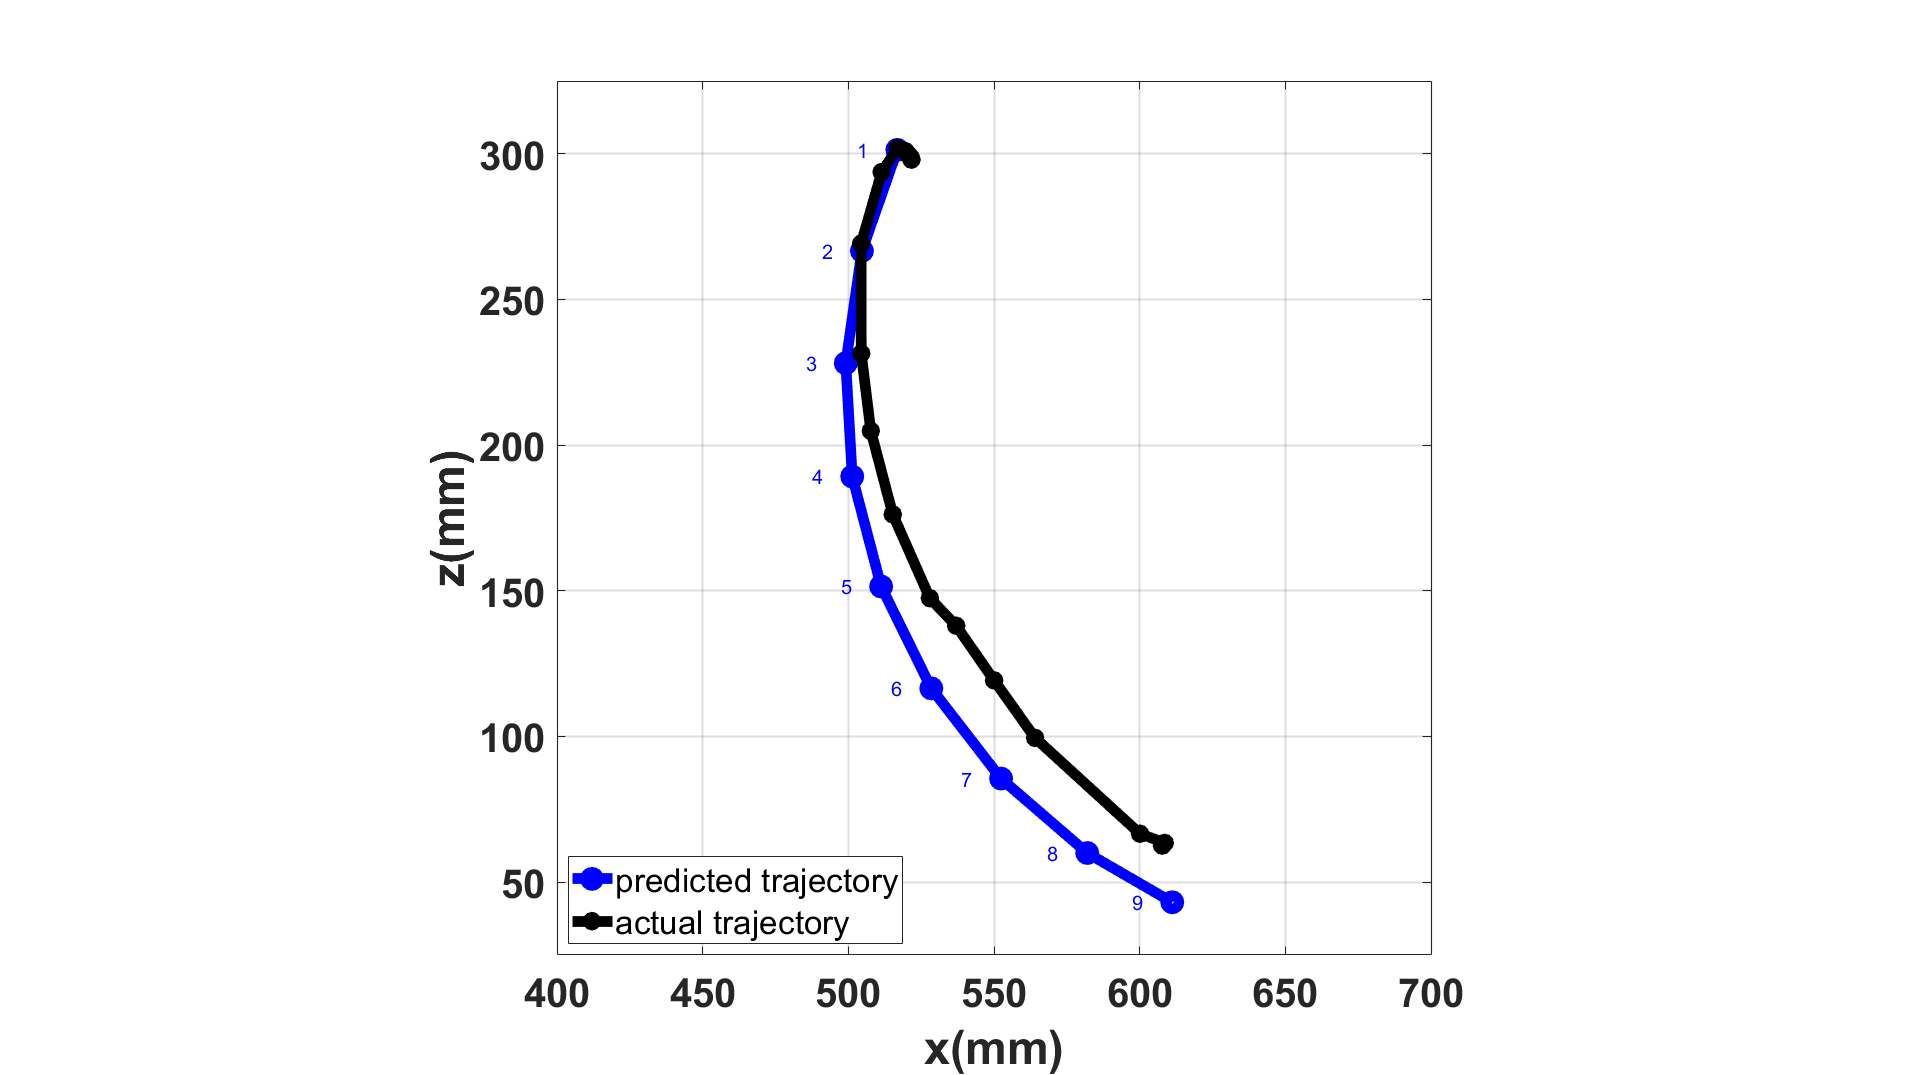
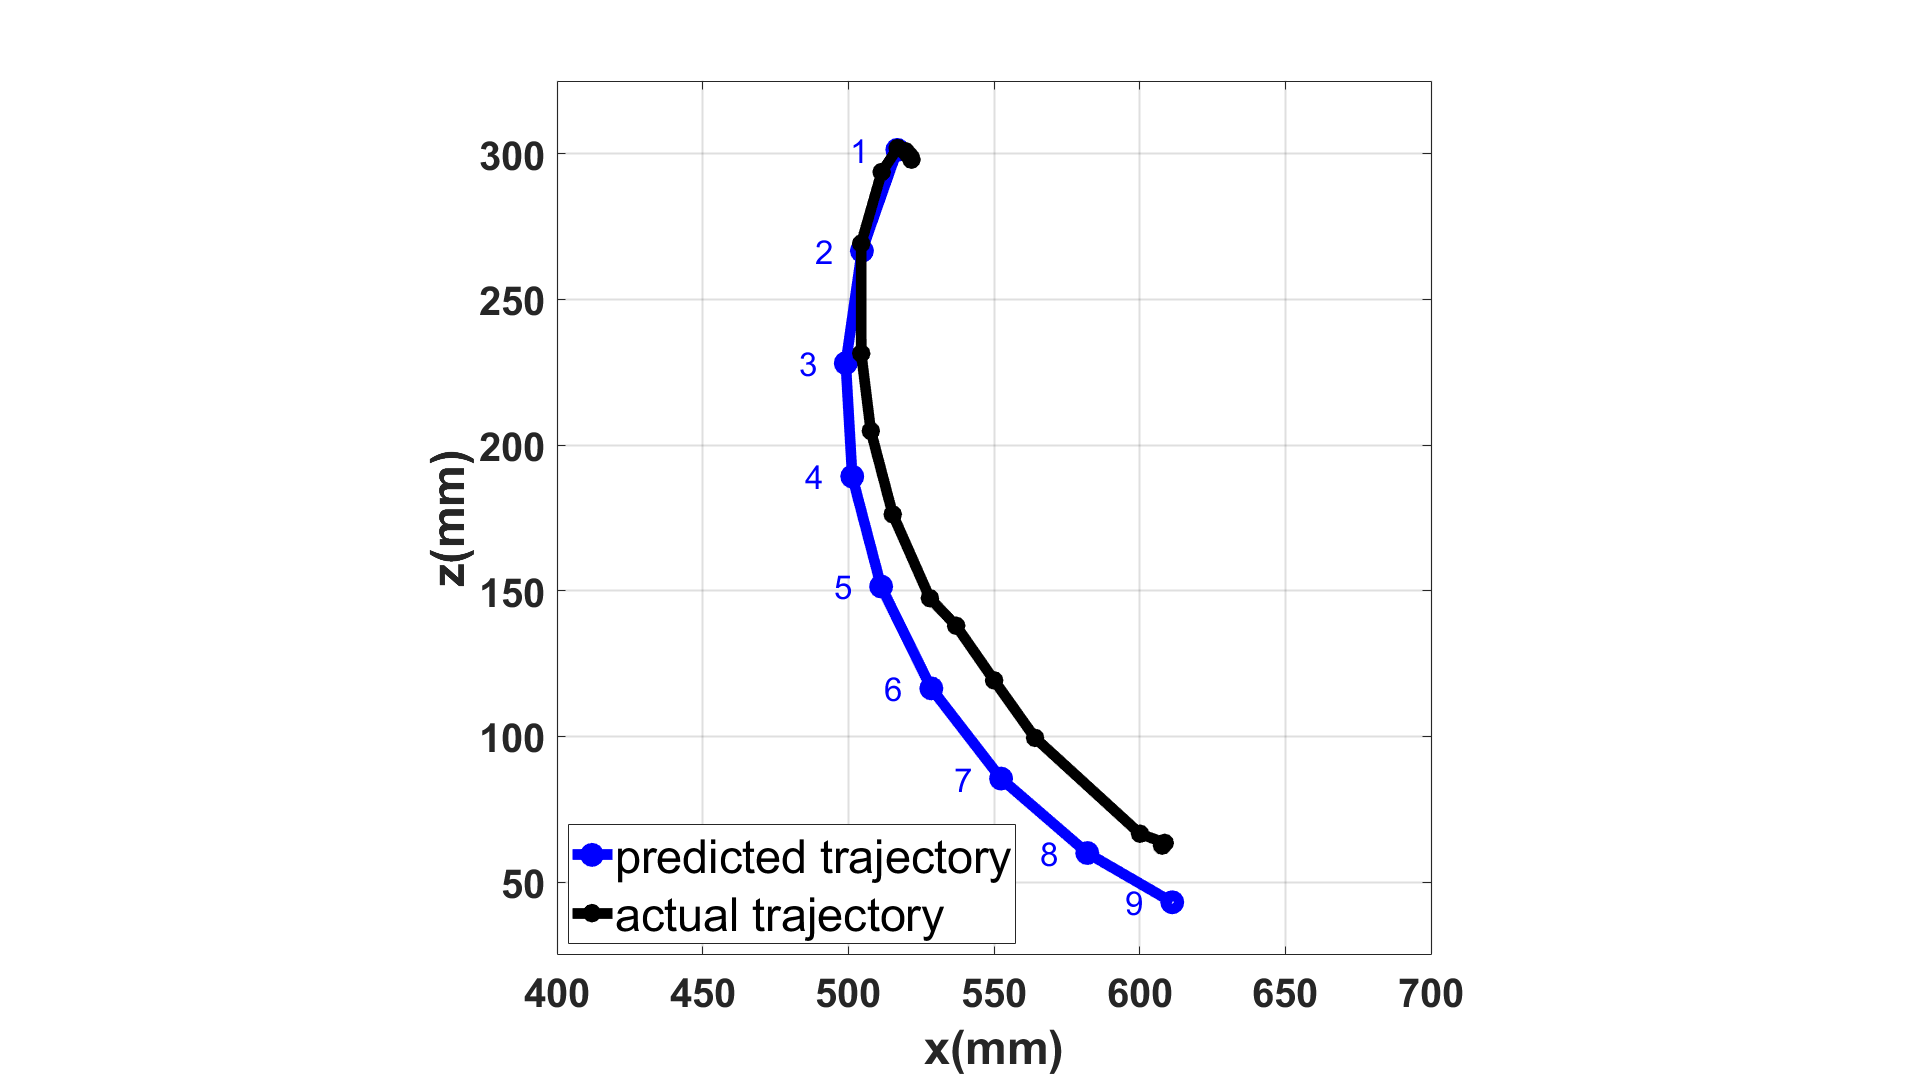
update valve_turn_case_1 plot font sizes and colors

diff --git a/real_robot_data_plots_and_demos/orientation_experiments/valve_turn_case_1/ee_position_and_joint_states_plotter.m b/real_robot_data_plots_and_demos/orientation_experiments/valve_turn_case_1/ee_position_and_joint_states_plotter.m
@@ -183,7 +183,7 @@ end
 
 % Joint state column headers
 js_end_index = 24; % specify end to truncate saturated readings
-joint_names = {'arm0_shoulder_yaw', 'arm0_shoulder_pitch', 'arm0_elbow_pitch', 'arm0_elbow_roll', 'arm0_wrist_pitch', 'arm0_wrist_roll'};
+joint_names = {'shoulder_yaw', 'shoulder_pitch', 'elbow_pitch', 'elbow_roll', 'wrist_pitch', 'wrist_roll'};
 
 % Extract data and plot
 for i = 1:length(joint_names)
@@ -199,7 +199,7 @@ grid on
 % Set fontsizes for various plot parameters
 title_fontsize = 50;
 label_fontsize = 50;
-legend_fontsize = 29;
+legend_fontsize = 35;
 tick_fontsize = 50;
 grid_lw = 1.5;
 
@@ -218,7 +218,7 @@ ax_joint_states.XLabel.FontSize = label_fontsize;
 ax_joint_states.YLabel.FontSize = label_fontsize;
 ax_joint_states.ZLabel.FontSize = label_fontsize;
 ax_joint_states.Legend.FontSize = legend_fontsize;
-ax_joint_states.Legend.Location = "northwest";
+ax_joint_states.Legend.Location = "northeast";
 ax_joint_states.Title.FontSize = title_fontsize;
 ax_joint_states.GridLineWidth = grid_lw;
 
@@ -313,7 +313,7 @@ plot(ax_ee_traj_final, df_pred{:, 'PredEEX'} * 1000, ...
     df_pred{:, 'PredEEZ'} * 1000, ...
     'b-o', 'LineWidth', 8, 'MarkerSize', 10, 'DisplayName', 'predicted trajectory');
 point_labels = 1:1:length(df_pred{:, 'PredEEX'} );
-point_label_font_size = 15;
+point_label_font_size = 25;
 point_label_offset_x = -4;
 labelpoints(df_pred{:, 'PredEEX'} * 1000 + point_label_offset_x, ...
      df_pred{:, 'PredEEZ'} * 1000, point_labels,'W', 0.4, 1, 'Fontsize', point_label_font_size, 'Color', 'b');
@@ -348,7 +348,7 @@ ax_ee_traj_final.Legend.Location = "southwest";
 % Set fontsizes for various plot parameters
 title_fontsize = 35;
 label_fontsize = 35;
-legend_fontsize = 25;
+legend_fontsize = 35;
 tick_fontsize = 30;
 grid_lw = 1.5;
 
@@ -419,19 +419,19 @@ ax_ee_or = subplot(1, 1, 1, 'Parent', fig6);
 % Predicted
 pred_or_plot_euler_x = plot(ax_ee_or, df_pred_euler{:, 'Timestep'}, ...
     df_pred_euler{:, 'EulerX'}, ...
-    'r-o', 'LineWidth', 8, 'DisplayName', 'predicted roll');
+    '-o','Color', 'blue', 'LineWidth', 8, 'DisplayName', 'predicted roll');
 hold on;
 pred_or_plot_euler_z = plot(ax_ee_or, df_pred_euler{:, 'Timestep'}, ...
     df_pred_euler{:, 'EulerZ'}, ...
-    'b-o', 'LineWidth', 8, 'DisplayName', 'predicted yaw');
+    '-o', 'Color', 'green', 'LineWidth', 8, 'DisplayName', 'predicted yaw');
 pred_polyfit_euler_y = polyfit(df_pred_euler{:, 'Timestep'}, df_pred_euler{:, 'EulerY'}, 1);
 pred_p_timestep = [min(df_pred_euler{:, 'Timestep'}) max(df_pred_euler{:, 'Timestep'})];
 pred_p_euler_y = polyval(pred_polyfit_euler_y, pred_p_timestep);
 pred_or_plot_euler_y = scatter(ax_ee_or, df_pred_euler{:, 'Timestep'}, ...
     df_pred_euler{:, 'EulerY'}, ...
-    100, 'filled', 'MarkerFaceColor', 'g', 'SizeData', 150);
+    100, 'filled', 'MarkerFaceColor', 'red', 'SizeData', 150);
 pred_or_plot_euler_y_trend = plot(ax_ee_or, pred_p_timestep, pred_p_euler_y, ...
-    'g', 'LineWidth', 7, 'DisplayName', 'predicted pitch');
+    'Color', 'red', 'LineWidth', 7, 'DisplayName', 'predicted pitch');
 
 
 % Actual
@@ -439,22 +439,22 @@ pred_or_plot_euler_y_trend = plot(ax_ee_or, pred_p_timestep, pred_p_euler_y, ...
 act_or_plot_euler_x = plot(ax_ee_or, df_act_euler{:, 'Timestep'}, ...
     df_act_euler{:, 'EulerX'}, ...
      '-o', 'LineWidth', 8, 'DisplayName', 'actual roll');
-act_or_plot_euler_x.Color = '#000000';
+act_or_plot_euler_x.Color = '#1f77b4';
 hold on;
 act_or_plot_euler_z = plot(ax_ee_or, df_act_euler{:, 'Timestep'}, ...
     df_act_euler{:, 'EulerZ'}, ...
-    '-o', 'LineWidth', 8, 'DisplayName', 'actual yaw');
-act_or_plot_euler_z.Color = '#A2142F';
+    '-o','LineWidth', 8, 'DisplayName', 'actual yaw');
+act_or_plot_euler_z.Color = '#2ca02c';
 act_polyfit_euler_y = polyfit(df_act_euler{:, 'Timestep'}, df_act_euler{:, 'EulerY'}, 1);
 act_p_timestep = [min(df_act_euler{:, 'Timestep'}) max(df_act_euler{:, 'Timestep'})];
 act_p_euler_y = polyval(act_polyfit_euler_y, act_p_timestep);
 act_or_plot_euler_y = scatter(ax_ee_or, df_act_euler{:, 'Timestep'}, ...
     df_act_euler{:, 'EulerY'}, ...
     100, 'filled','SizeData', 150);
-act_or_plot_euler_y.MarkerFaceColor = '#7E2F8E';
+act_or_plot_euler_y.MarkerFaceColor = '#f08080';
 act_or_plot_euler_y_trend = plot(ax_ee_or, act_p_timestep, act_p_euler_y, ...
     'LineWidth', 7, 'DisplayName', 'actual pitch');
-act_or_plot_euler_y_trend.Color = '#7E2F8E';
+act_or_plot_euler_y_trend.Color = '#f08080';
 
 % [P, S] = polyfit(df_act_euler{:, 'Timestep'}, df_act_euler{:, 'EulerY'}, 1)
 % R_squared = 1 - (S.normr/norm(df_act_euler{:, 'EulerY'} - mean(df_act_euler{:, 'EulerY'})))^2
